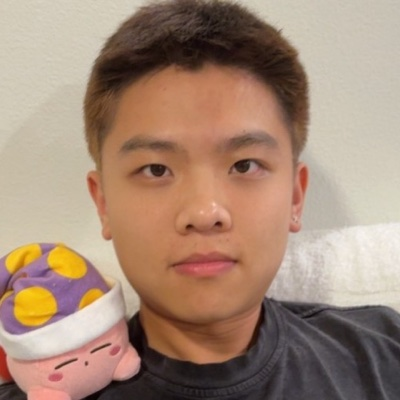
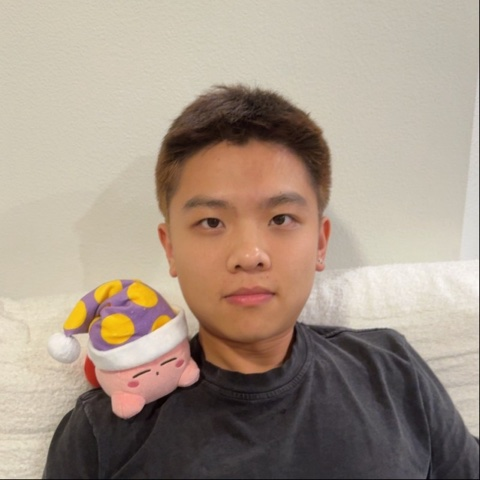
Show full uncropped photo, borderless

diff --git a/index.html b/index.html
@@ -275,6 +275,10 @@
   .tag:hover { background: var(--link-hover); color: #fff; }
 
   img.avatar { width: 104px; height: 104px; object-fit: cover; object-position: 50% 50%; background: none; display: block; }
+
+  img.avatar { width: 168px; height: 168px; border-radius: 14px; object-fit: contain; box-shadow: none; transform: none; }
+  img.avatar:hover { box-shadow: none; transform: none; }
+  @media (max-width: 600px) { img.avatar { width: 140px; height: 140px; } }
 </style>
 </head>
 <body>
@@ -292,7 +296,7 @@
 <main>
 
   <header>
-    <img class="avatar" src="assets/avatar.jpg" alt="Zhihao Wang" width="104" height="104">
+    <img class="avatar" src="assets/avatar.jpg" alt="Zhihao Wang" width="168" height="168">
     <div>
       <h1>Zhihao Wang</h1>
       <p class="role">Member of Technical Staff @ Perplexity</p>
